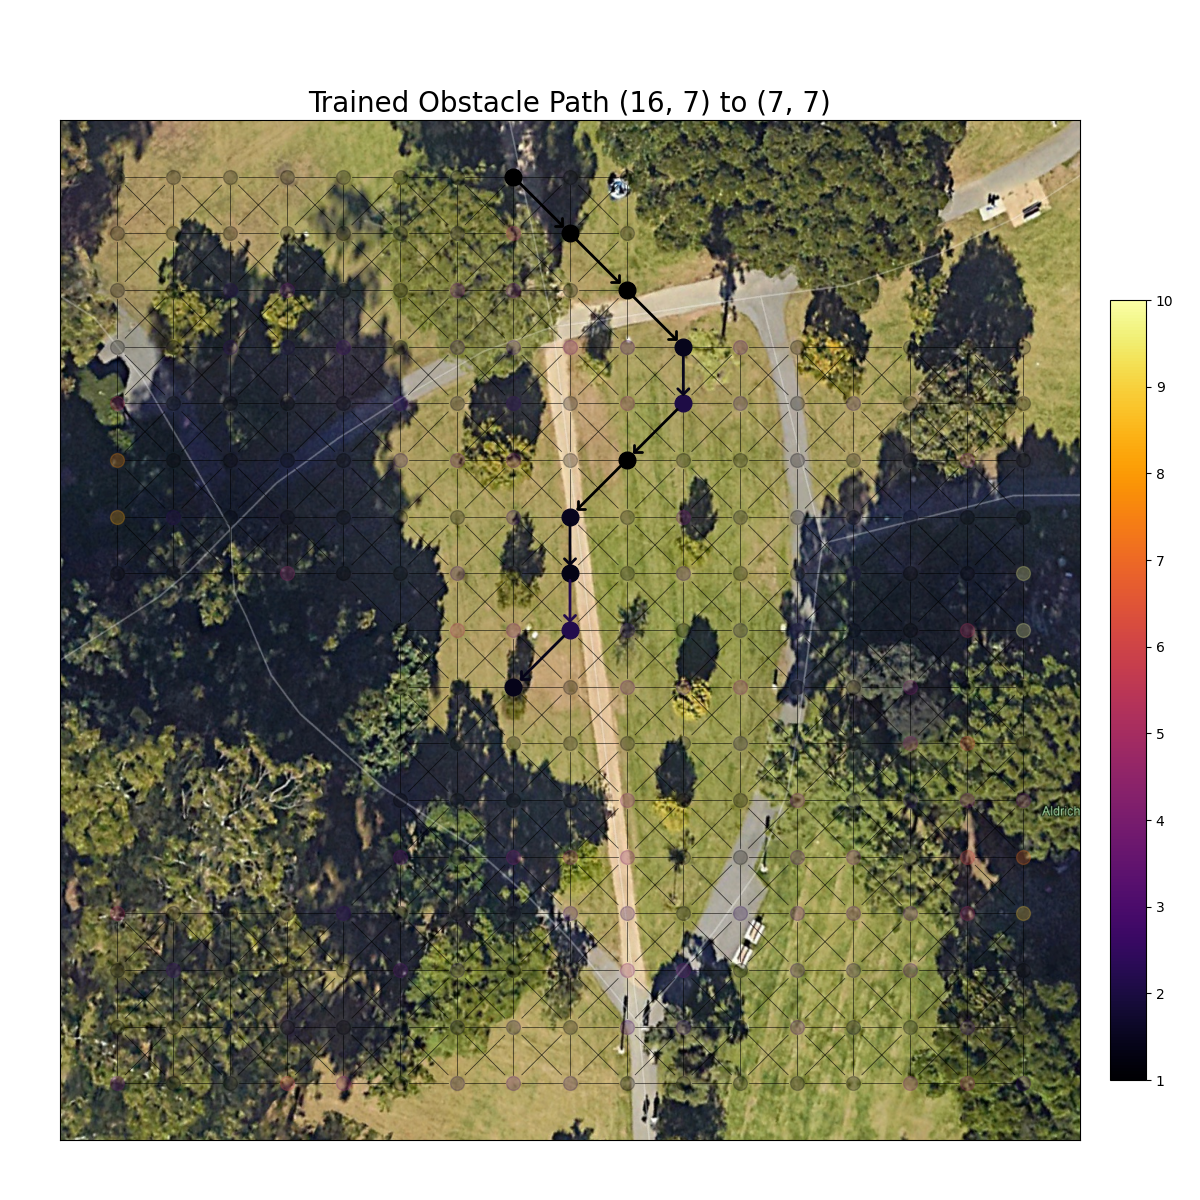
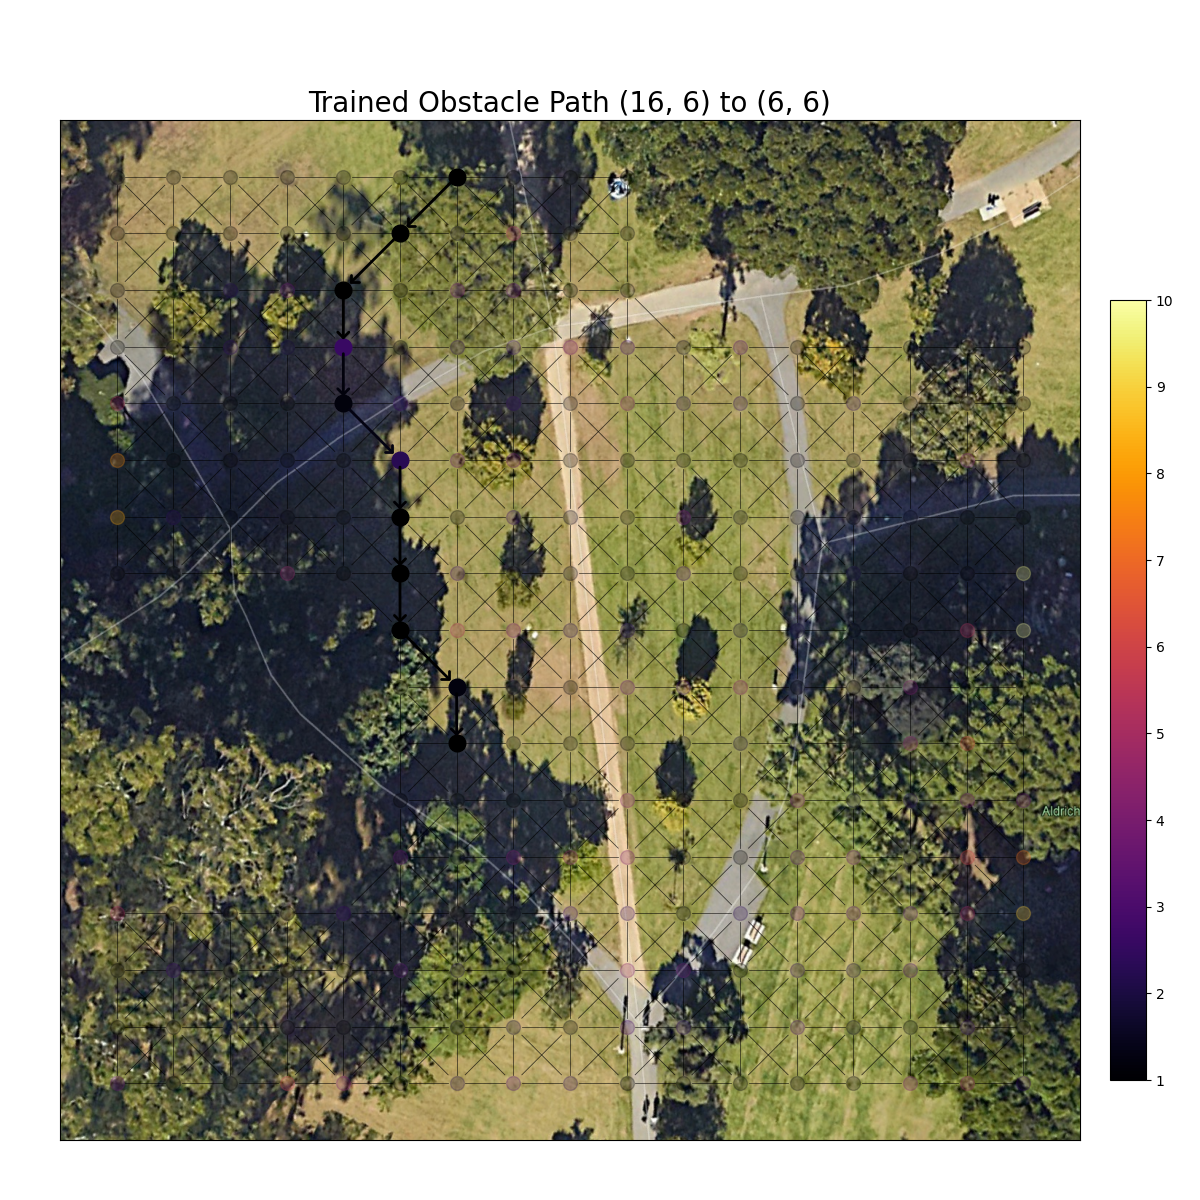
updated

diff --git a/placecell.py b/placecell.py
@@ -587,7 +587,6 @@ if __name__ == "__main__":
     naive_network.initConnections()
     #(15, 1) to (9, 11) for obstacles
 
-
     p = network.spikeWave((15, 1), (9, 11), costmap=[1])
     network.plotPath(p, costmap=1, image="images/map/mapraw.jpg", title="Trained Obstacle Path (15, 1) to (9, 11)")
     plt.savefig("images/1_trained_obs.png")
@@ -600,18 +599,18 @@ if __name__ == "__main__":
     plt.show()
     plt.close()
 
-    p = network.spikeWave((16, 7), (7, 7), costmap=[1])
-    network.plotPath(p, costmap=1, image="images/map/mapraw.jpg", title="Trained Obstacle Path (16, 7) to (7, 7)")
+    p = network.spikeWave((16, 6), (6, 6), costmap=[1])
+    network.plotPath(p, costmap=1, image="images/map/mapraw.jpg", title="Trained Obstacle Path (16, 6) to (6, 6)")
     plt.savefig("images/2_trained_obs.png")
     plt.show()
     plt.close()
 
-    p = naive_network.spikeWave((16, 7), (7, 7), costmap=[1])
-    naive_network.plotPath(p, costmap=1, image="images/map/mapraw.jpg", title="Naive Obstacle Path (16, 7) to (7, 7)", diff_map=network)
+    p = naive_network.spikeWave((16, 6), (6, 6), costmap=[1])
+    naive_network.plotPath(p, costmap=1, image="images/map/mapraw.jpg", title="Naive Obstacle Path (16, 6) to (6, 6)", diff_map=network)
     plt.savefig("images/2_naive_obs.png")
     plt.show()
     plt.close()
-
+    '''
     p = network.spikeWave((0, 13), (5, 13), costmap=[4])
     network.plotPath(p, costmap=4, image="images/map/mapraw.jpg", title="Trained Slope Path (0, 13) to (5, 13)")
     plt.savefig("images/3_trained_slope.png")
@@ -623,7 +622,7 @@ if __name__ == "__main__":
     plt.savefig("images/3_naive_slope.png")
     plt.show()
     plt.close()
-
+    '''
     network.plotCells(costmap=0, image="images/map/mapraw.jpg", title="Current Cost Map")
     plt.savefig("images/current_cost_map.png")
     plt.show()
